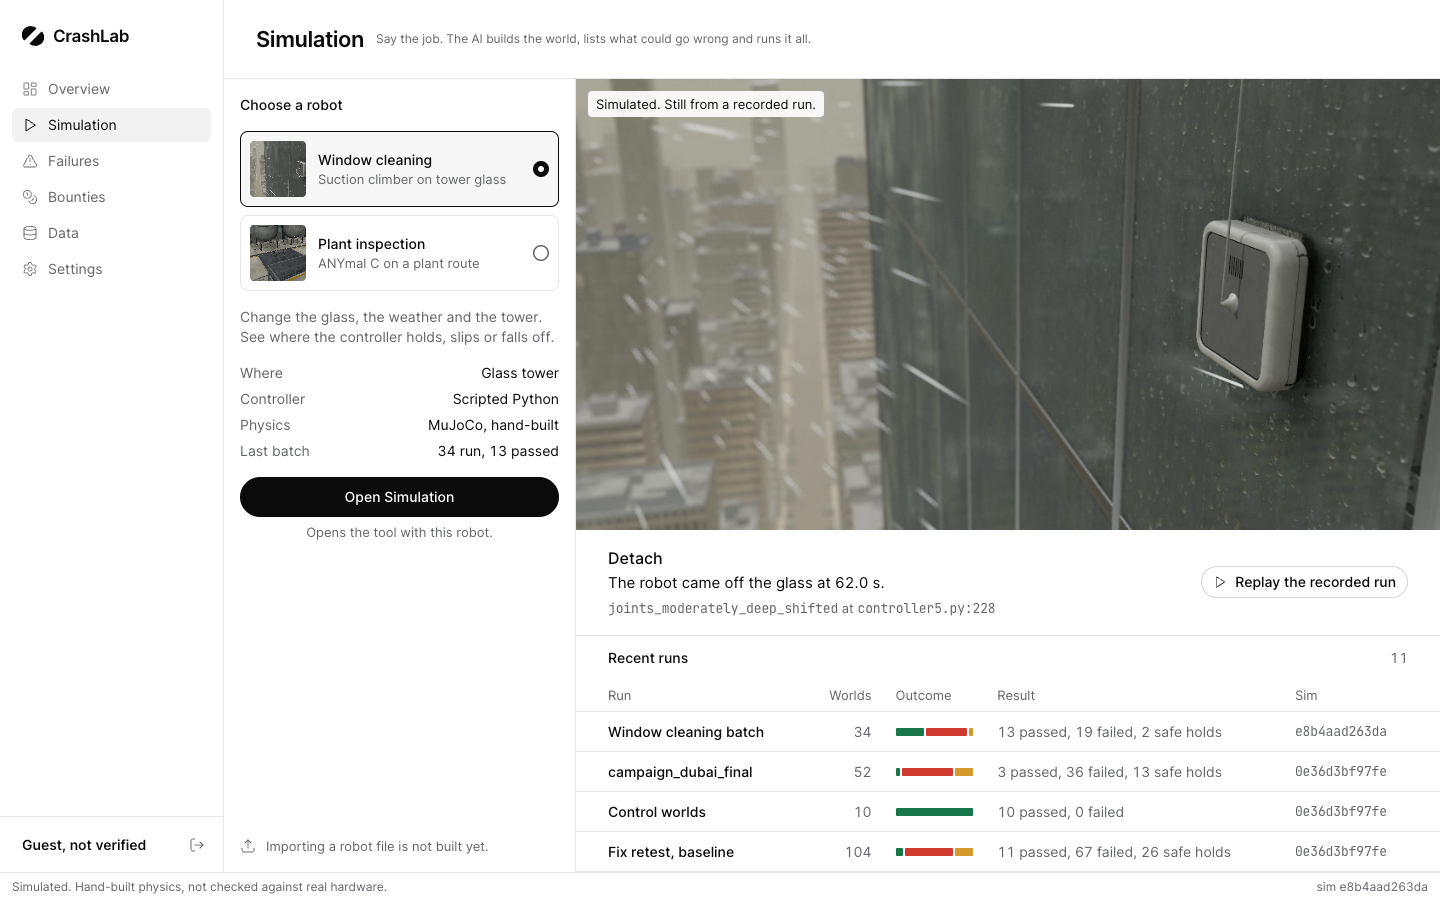
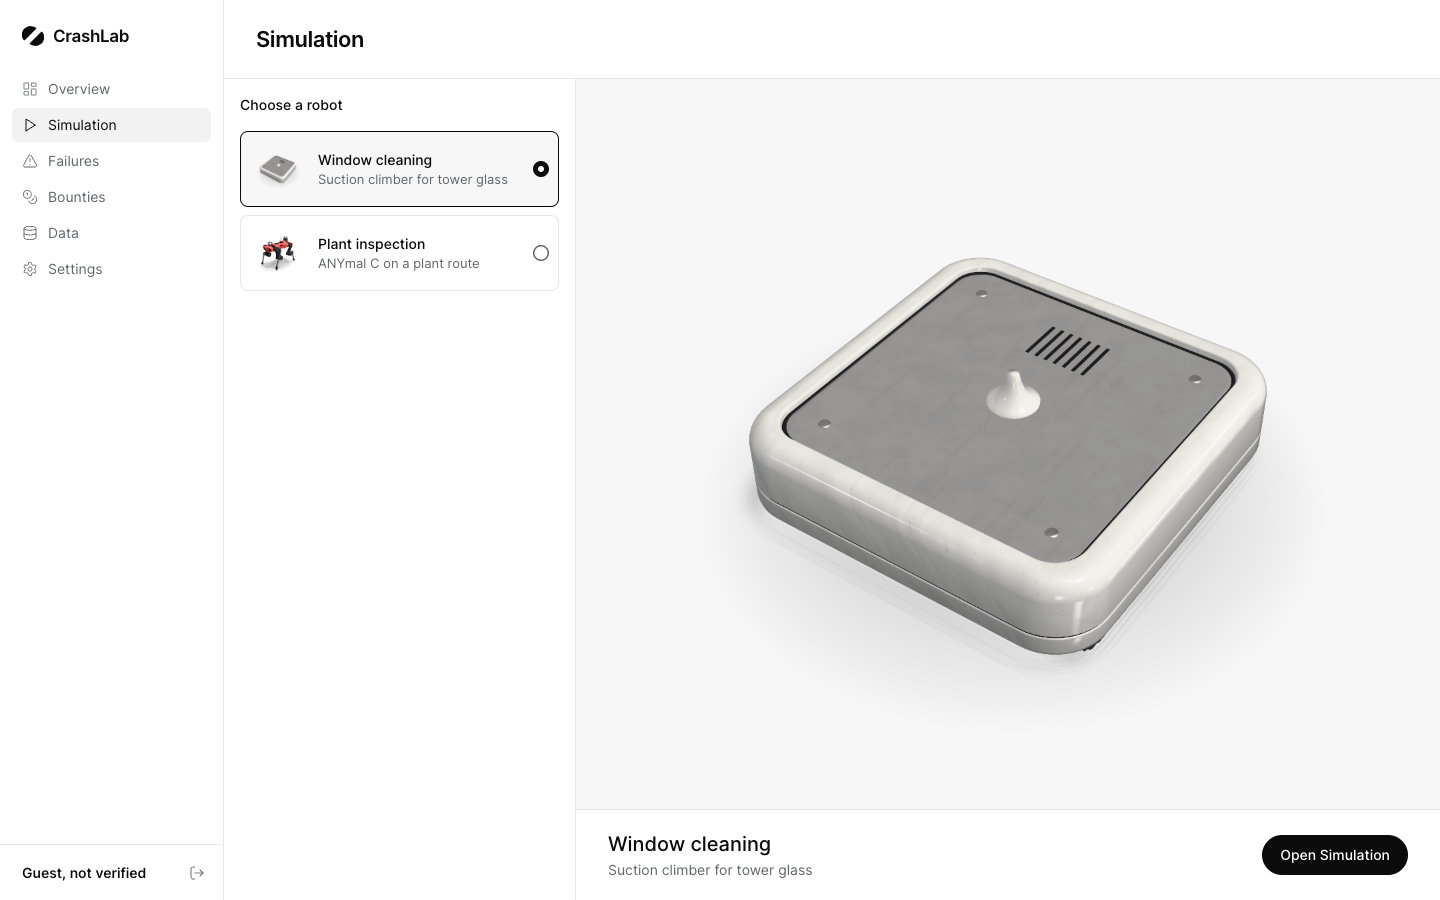
Choose a robot shows only the robot: real renders on a plain background, name, one line, Open Simulation

diff --git a/src/site/tools/robot_shot.ts b/src/site/tools/robot_shot.ts
@@ -1,0 +1,138 @@
+// One robot on nothing, for public/site/robot-*.png. It draws the same models the lab draws: buildRobot for the window robot, the exported meshes and a recorded pose for ANYmal C.
+import * as THREE from 'three';
+import { RoomEnvironment } from 'three/examples/jsm/environments/RoomEnvironment.js';
+import { buildRobot } from '../../view/real/robot.ts';
+
+const W = 3200, H = 2400, OUT_W = 1200, OUT_H = 900, FADE = 0.06;
+interface Pose { labels: string[]; q: number[] }
+interface View { robot: 'window' | 'anymal'; pose?: Pose; ground: number; yaw: number; pitch: number; aim: number[]; dist: number; fov: number }
+
+async function anymal(scene: THREE.Scene, pose: Pose) {
+  const base = '/robots/anymal_c';
+  const [model, bin] = await Promise.all([fetch(`${base}/robot.json`).then(r => r.json()), fetch(`${base}/robot.bin`).then(r => r.arrayBuffer())]);
+  const { position, normal, uv, index } = model.layout;
+  const positions = new THREE.BufferAttribute(new Float32Array(bin, position, model.vertices * 3), 3);
+  const normals = new THREE.BufferAttribute(new Int8Array(bin, normal, model.vertices * 4), 4, true);
+  const uvs = new THREE.BufferAttribute(new Float32Array(bin, uv, model.vertices * 2), 2);
+  const indices = new THREE.BufferAttribute(new Uint32Array(bin, index, model.indices), 1);
+  const bodies = new Map(pose.labels.map((label, i) => {
+    const g = new THREE.Group();
+    g.position.fromArray(pose.q, i * 7);
+    g.quaternion.fromArray(pose.q, i * 7 + 3);
+    scene.add(g);
+    return [label, g] as const;
+  }));
+  const loader = new THREE.TextureLoader();
+  const waits: Promise<unknown>[] = [];
+  for (const part of model.parts) {
+    const material = new THREE.MeshStandardMaterial({ color: new THREE.Color().setRGB(part.colour[0], part.colour[1], part.colour[2]), roughness: 0.6 });
+    if (part.texture) waits.push(loader.loadAsync(`${base}/textures/${encodeURIComponent(part.texture)}`).then(map => {
+      map.colorSpace = THREE.SRGBColorSpace;
+      map.anisotropy = 16;
+      material.map = map;
+      material.needsUpdate = true;
+    }));
+    const g = new THREE.BufferGeometry();
+    g.setAttribute('position', positions);
+    g.setAttribute('normal', normals);
+    g.setAttribute('uv', uvs);
+    g.setIndex(indices);
+    g.setDrawRange(part.first_index, part.index_count);
+    g.boundingSphere = new THREE.Sphere(new THREE.Vector3(), 1.5);
+    const mesh = new THREE.Mesh(g, material);
+    mesh.castShadow = mesh.receiveShadow = true;
+    bodies.get(part.body)?.add(mesh);
+  }
+  await Promise.all(waits);
+}
+
+// A soft dark pool under the robot, so it stands on something without a floor.
+function contactPool(ground: number, rx: number, ry: number) {
+  const c = document.createElement('canvas');
+  c.width = c.height = 512;
+  const x = c.getContext('2d')!;
+  const g = x.createRadialGradient(256, 256, 0, 256, 256, 256);
+  g.addColorStop(0, 'rgba(0,0,0,.26)'); g.addColorStop(0.55, 'rgba(0,0,0,.12)'); g.addColorStop(1, 'rgba(0,0,0,0)');
+  x.fillStyle = g;
+  x.fillRect(0, 0, 512, 512);
+  const m = new THREE.Mesh(new THREE.PlaneGeometry(rx * 2, ry * 2), new THREE.MeshBasicMaterial({ map: new THREE.CanvasTexture(c), transparent: true, depthWrite: false, toneMapped: false }));
+  m.position.z = ground;
+  return m;
+}
+
+async function draw(v: View): Promise<string> {
+  const renderer = new THREE.WebGLRenderer({ antialias: true, alpha: true, preserveDrawingBuffer: true });
+  renderer.setPixelRatio(1);
+  renderer.setSize(W, H);
+  renderer.setClearColor(0, 0);
+  renderer.toneMapping = THREE.NeutralToneMapping;
+  renderer.toneMappingExposure = 1.0;
+  renderer.shadowMap.enabled = true;
+  renderer.shadowMap.type = THREE.PCFShadowMap;
+  const scene = new THREE.Scene();
+  const pmrem = new THREE.PMREMGenerator(renderer);
+  scene.environment = pmrem.fromScene(new RoomEnvironment(), 0.03).texture;
+  scene.environmentIntensity = v.robot === 'window' ? 0.5 : 0.62;
+  const aim = new THREE.Vector3().fromArray(v.aim);
+  const size = v.robot === 'window' ? 0.5 : 1.1;
+  const key = new THREE.DirectionalLight(0xfff6ec, v.robot === 'window' ? 1.45 : 2.1);
+  key.position.set(aim.x + Math.cos(v.yaw + 0.8) * 1.1, aim.y + Math.sin(v.yaw + 0.8) * 1.1, aim.z + 4);
+  key.target.position.copy(aim);
+  key.castShadow = true;
+  key.shadow.mapSize.set(1024, 1024);
+  key.shadow.radius = 9;
+  key.shadow.bias = -0.0004;
+  key.shadow.normalBias = 0.002;
+  Object.assign(key.shadow.camera, { left: -size, right: size, top: size, bottom: -size, near: 0.1, far: 8 });
+  const fill = new THREE.DirectionalLight(0xe6efff, v.robot === 'window' ? 0.3 : 0.6);
+  fill.position.set(aim.x + Math.cos(v.yaw - 1.2) * 2, aim.y + Math.sin(v.yaw - 1.2) * 2, aim.z + 1);
+  fill.target.position.copy(aim);
+  scene.add(key, key.target, fill, fill.target);
+  if (v.robot === 'window') {
+    const robot = buildRobot(renderer);
+    robot.root.traverse(o => { if (o instanceof THREE.Mesh) o.castShadow = o.receiveShadow = true; });
+    robot.root.children[1].scale.y = 0.97; // Picture only: the tracks poke 2 mm through the body's rounded corners. Up close that reads as a chip.
+    scene.add(robot.root);
+    scene.add(contactPool(v.ground, 0.29, 0.29));
+  } else {
+    await anymal(scene, v.pose!);
+    scene.add(contactPool(v.ground, 0.72, 0.46));
+  }
+  const floor = new THREE.Mesh(new THREE.PlaneGeometry(10, 10), new THREE.ShadowMaterial({ opacity: 0.14 }));
+  floor.position.z = v.ground;
+  floor.receiveShadow = true;
+  scene.add(floor);
+  const camera = new THREE.PerspectiveCamera(v.fov, W / H, 0.05, 30);
+  camera.up.set(0, 0, 1);
+  camera.position.set(aim.x + v.dist * Math.cos(v.pitch) * Math.cos(v.yaw), aim.y + v.dist * Math.cos(v.pitch) * Math.sin(v.yaw), aim.z + v.dist * Math.sin(v.pitch));
+  camera.lookAt(aim);
+  renderer.render(scene, camera);
+  // Crop to the opaque robot, then scale down: the scale-down is the final anti-aliasing.
+  const big = document.createElement('canvas');
+  big.width = W; big.height = H;
+  const bx = big.getContext('2d', { willReadFrequently: true })!;
+  bx.drawImage(renderer.domElement, 0, 0);
+  const a = bx.getImageData(0, 0, W, H).data;
+  let x0 = W, x1 = 0, y0 = H, y1 = 0;
+  for (let y = 0; y < H; y += 2) for (let x = 0; x < W; x += 2) if (a[(y * W + x) * 4 + 3] > 200) { x0 = Math.min(x0, x); x1 = Math.max(x1, x); y0 = Math.min(y0, y); y1 = Math.max(y1, y); }
+  const MARGIN = v.robot === 'window' ? 0.17 : 0.1;
+  const scale = Math.min((OUT_W * (1 - 2 * MARGIN)) / (x1 - x0), (OUT_H * (1 - 2 * MARGIN)) / (y1 - y0));
+  const out = document.createElement('canvas');
+  out.width = OUT_W; out.height = OUT_H;
+  const ox = out.getContext('2d')!;
+  ox.imageSmoothingQuality = 'high';
+  ox.drawImage(big, OUT_W / 2 - ((x0 + x1) / 2) * scale, OUT_H / 2 - ((y0 + y1) / 2) * scale, W * scale, H * scale);
+  // The floor shadow must end before the edge of the picture, or the page shows a straight line.
+  ox.globalCompositeOperation = 'destination-in';
+  for (const [x, y] of [[OUT_W, 0], [0, OUT_H]]) {
+    const g = ox.createLinearGradient(0, 0, x, y);
+    g.addColorStop(0, 'rgba(0,0,0,0)'); g.addColorStop(FADE, '#000'); g.addColorStop(1 - FADE, '#000'); g.addColorStop(1, 'rgba(0,0,0,0)');
+    ox.fillStyle = g;
+    ox.fillRect(0, 0, OUT_W, OUT_H);
+  }
+  renderer.dispose();
+  return `${x1 - x0}x${y1 - y0}@${scale.toFixed(3)}|${out.toDataURL('image/png')}`;
+}
+
+Object.assign(window, { drawRobot: draw });
+document.title = 'ready';

diff --git a/src/site/simulation.ts b/src/site/simulation.ts
@@ -1,30 +1,17 @@
 import { mountShell } from './shell.ts';
-import { icon } from './icons.ts';
-import { button, filmStrip, getJson, h, link, outcomeBar, resultWords, serverDown, type Tally } from './ui.ts';
-
-interface Run extends Tally { id: string; label: string; pack: string; sim: string | null; note: string; held_back: number }
-interface Sample { name: string; group: string; reason: string; line: string; film: string | null; replay: string | null; kind_name: string }
-interface Recent { runs: Run[]; samples: Record<string, Sample | null> }
+import { button, h } from './ui.ts';
 
 // The same key lab.html reads to pick its robot.
 const PACK_KEY = 'crashlab-pack';
 const ROBOTS = [
-  { pack: 'window', name: 'Window cleaning', line: 'Suction climber on tower glass', frame: '/site/frames/tower-wind.jpg', alt: 'The window robot on a tower facade',
-    where: 'Glass tower', controller: 'Scripted Python', physics: 'MuJoCo, hand-built', about: 'Change the glass, the weather and the tower. See where the controller holds, slips or falls off.' },
-  { pack: 'inspection', name: 'Plant inspection', line: 'ANYmal C on a plant route', frame: '/site/frames/plant-walk.jpg', alt: 'The ANYmal C robot on a plant route',
-    where: 'Plant route', controller: 'Upstream policy, ONNX', physics: 'Newton, not calibrated', about: 'Change the floor, the pipes and the load. See where the walking policy trips, sticks or falls.' },
+  { pack: 'window', name: 'Window cleaning', line: 'Suction climber for tower glass', picture: '/site/robot-window.png', alt: 'The window cleaning robot' },
+  { pack: 'inspection', name: 'Plant inspection', line: 'ANYmal C on a plant route', picture: '/site/robot-anymal.png', alt: 'The ANYmal C robot' },
 ] as const;
 type Pack = typeof ROBOTS[number]['pack'];
 
-const { main, setStatus, who } = mountShell({ page: 'simulation', title: 'Simulation', subtitle: 'Say the job. The AI builds the world, lists what could go wrong and runs it all.' });
-let data: Recent | null = null;
-let down = false;
+const { main } = mountShell({ page: 'simulation', title: 'Simulation' });
 let chosen: Pack = 'window';
 try { if (sessionStorage.getItem(PACK_KEY) === 'inspection') chosen = 'inspection'; } catch { /* no storage: the window robot */ }
-
-const facts = h('dl', 'facts');
-const about = h('p', 'about');
-const stage = h('section', 'stage');
 
 function open() {
   try { sessionStorage.setItem(PACK_KEY, chosen); } catch { /* no storage: the lab keeps its own default */ }
@@ -35,53 +22,21 @@ const cards = h('fieldset', 'cards', h('legend', '', ''));
 for (const r of ROBOTS) {
   const input = Object.assign(h('input'), { type: 'radio', name: 'robot', value: r.pack, checked: r.pack === chosen });
   input.addEventListener('change', () => { chosen = r.pack; paint(); });
-  const img = Object.assign(h('img'), { src: r.frame, alt: '' });
+  const img = Object.assign(h('img'), { src: r.picture, alt: '' });
   cards.append(h('label', 'card', input, img, h('span', '', h('b', '', r.name), h('small', '', r.line)), h('span', 'radio')));
 }
 
-const aside = h('aside', '', h('h2', '', 'Choose a robot'), cards, about, facts,
-  h('div', '', button('pri lg wide', 'Open Simulation', open), h('p', 'open-note', 'Opens the tool with this robot.')),
-  h('div', 'later', icon('upload', 16), 'Two robots are ready to test. Importing your own robot is next.'));
-main.append(h('div', 'lab', aside, stage));
+const picture = h('div', 'pick-picture');
+const name = h('h2', 'pick-name');
+const line = h('p', 'pick-line');
+const stage = h('section', 'stage pick', picture, h('div', 'pick-foot', h('div', '', name, line), button('pri lg', 'Open Simulation', open)));
+main.append(h('div', 'lab', h('aside', '', h('h2', '', 'Choose a robot'), cards), stage));
 
 function paint() {
   const r = ROBOTS.find(x => x.pack === chosen)!;
-  const runs = (data?.runs ?? []).filter(x => x.pack === chosen);
-  const batch = runs[0];
-  about.textContent = r.about;
-  const row = (k: string, v: string) => [h('dt', '', k), h('dd', '', v)];
-  facts.replaceChildren(...row('Where', r.where), ...row('Controller', r.controller), ...row('Physics', r.physics), ...row('Last batch', batch ? `${batch.total} run, ${batch.passed} passed` : 'None yet'));
-  const big = h('div', 'frame big swap', Object.assign(h('img'), { src: r.frame, alt: r.alt }), h('div', 'frame-note', 'Still from a recorded run.'));
-  stage.replaceChildren(big);
-  const sample = data?.samples[chosen];
-  if (sample) {
-    stage.append(h('div', chosen === 'inspection' ? 'detail' : 'detail plain',
-      chosen === 'inspection' && sample.film ? filmStrip(sample.film, `Frames from world ${sample.name}. Move across to step through them.`) : null,
-      h('div', '', h('h2', '', sample.kind_name), h('p', '', sample.reason), h('small', '', h('code', '', sample.name), sample.line ? ' at ' : '', sample.line ? h('code', '', sample.line) : null)),
-      sample.replay ? link('btn sec', sample.replay, icon('play'), 'Replay the recorded run') : null));
-  }
-  const table = h('div', '', h('div', 'sect', h('h2', '', 'Recent runs'), h('div', 'r', String(runs.length))));
-  if (down) table.append(serverDown('The run list'));
-  else if (!data) table.append(h('div', 'empty', h('p', 'quiet', 'Reading runs.')));
-  else if (!runs.length) table.append(h('div', 'empty', h('p', '', 'No runs with this robot yet.'), h('p', 'quiet', 'Open Simulation and run its scenarios. They appear here.')));
-  else {
-    const body = h('tbody');
-    for (const x of runs.slice(0, 4)) {
-      const tr = h('tr', 'row', h('td', 'main', x.label), h('td', 'num', String(x.total)), h('td', 'hide-s', outcomeBar(x)), h('td', '', resultWords(x)), h('td', 'mono hide-n', x.sim ?? 'unknown'));
-      tr.tabIndex = 0;
-      const go = () => { location.href = `data.html?c=${encodeURIComponent(x.id)}`; };
-      tr.addEventListener('click', go);
-      tr.addEventListener('keydown', e => { if (e.key === 'Enter') go(); });
-      body.append(tr);
-    }
-    table.append(h('table', '', h('thead', '', h('tr', '', h('th', '', 'Run'), h('th', 'num', 'Worlds'), h('th', 'hide-s', 'Outcome'), h('th', '', 'Result'), h('th', 'hide-n', 'Sim'))), body));
-  }
-  stage.append(table);
-  if (batch) setStatus('', batch.sim ? [`sim ${batch.sim}`] : []);
+  picture.replaceChildren(Object.assign(h('img', 'swap'), { src: r.picture, alt: r.alt }));
+  name.textContent = r.name;
+  line.textContent = r.line;
 }
 
 paint();
-void who.then(w => { // The server refuses this list to an engineer, whom the shell is sending to Bounties.
-  if (w.kind === 'none' || w.kind === 'engineer') return;
-  getJson<Recent>('/site-api/recent').then(d => { data = d; paint(); }).catch(() => { down = true; paint(); });
-});

diff --git a/src/site/site.css b/src/site/site.css
@@ -103,18 +103,12 @@ mark{background:rgba(211,154,42,.3);color:inherit;border-radius:2px}
 .card:hover{background:var(--raised)}
 .card:has(input:checked){background:var(--raised);box-shadow:inset 0 0 0 1px var(--accent)}
 .card:has(input:focus-visible){outline:2px solid var(--ring);outline-offset:1px}
-.card img{width:56px;height:56px;object-fit:cover;border-radius:4px;display:block}
+.card img{width:56px;height:56px;object-fit:contain;display:block}
 .card b{display:block;font-weight:500}
 .card small{display:block;font-size:13px;line-height:18px;color:var(--t2)}
 .card input{position:absolute;opacity:0;pointer-events:none}
 .radio{width:16px;height:16px;border-radius:50%;box-shadow:inset 0 0 0 1.5px var(--t3);transition:box-shadow 120ms var(--enter)}
 .card:has(input:checked) .radio{box-shadow:inset 0 0 0 5px var(--accent)}
-.facts{display:grid;grid-template-columns:auto minmax(0,1fr);gap:6px 16px}
-.facts dt{color:var(--t3)}
-.facts dd{text-align:right;color:var(--t1);min-width:0;overflow-wrap:anywhere}
-.lab .about{color:var(--t2)}
-.lab .open-note{color:var(--t3);font-size:13px;line-height:18px;margin-top:6px;text-align:center}
-.lab .later{margin-top:auto;display:flex;align-items:center;gap:10px;color:var(--t3);font-size:13px;padding-top:8px}
 .stage{min-width:0;min-height:0;overflow:hidden auto;display:flex;flex-direction:column}
 .stage .big{flex:1 1 auto;min-height:320px}
 .stage .big img{position:absolute;inset:0}
@@ -126,6 +120,12 @@ mark{background:rgba(211,154,42,.3);color:inherit;border-radius:2px}
 .detail small{display:block;color:var(--t3);font-size:13px;margin-top:4px}
 .detail code{color:var(--t2)}
 .stage table{flex:none}
+.pick{overflow:hidden;background:var(--raised)}
+.pick-picture{flex:1 1 0;min-height:0;display:flex;align-items:center;justify-content:center;padding:24px var(--gutter) 0}
+.pick-picture img{display:block;width:100%;height:100%;max-width:1200px;object-fit:contain}
+.pick-foot{flex:none;display:flex;align-items:center;justify-content:space-between;gap:24px;padding:20px var(--gutter);border-top:1px solid var(--line);background:var(--bg,#fff)}
+.pick-name{font-size:20px;line-height:28px;font-weight:500}
+.pick-line{color:var(--t2);margin-top:2px}
 .swap{animation:swap 160ms var(--enter)}
 @keyframes swap{from{opacity:.4}to{opacity:1}}
 

diff --git a/src/site/tools/robot_shot.html b/src/site/tools/robot_shot.html
@@ -1,0 +1,5 @@
+<!doctype html>
+<html lang="en">
+<head><meta charset="utf-8"><title>Robot picture</title><link rel="icon" href="data:,"></head>
+<body style="margin:0;background:#fff"><script type="module" src="/src/site/tools/robot_shot.ts"></script></body>
+</html>
